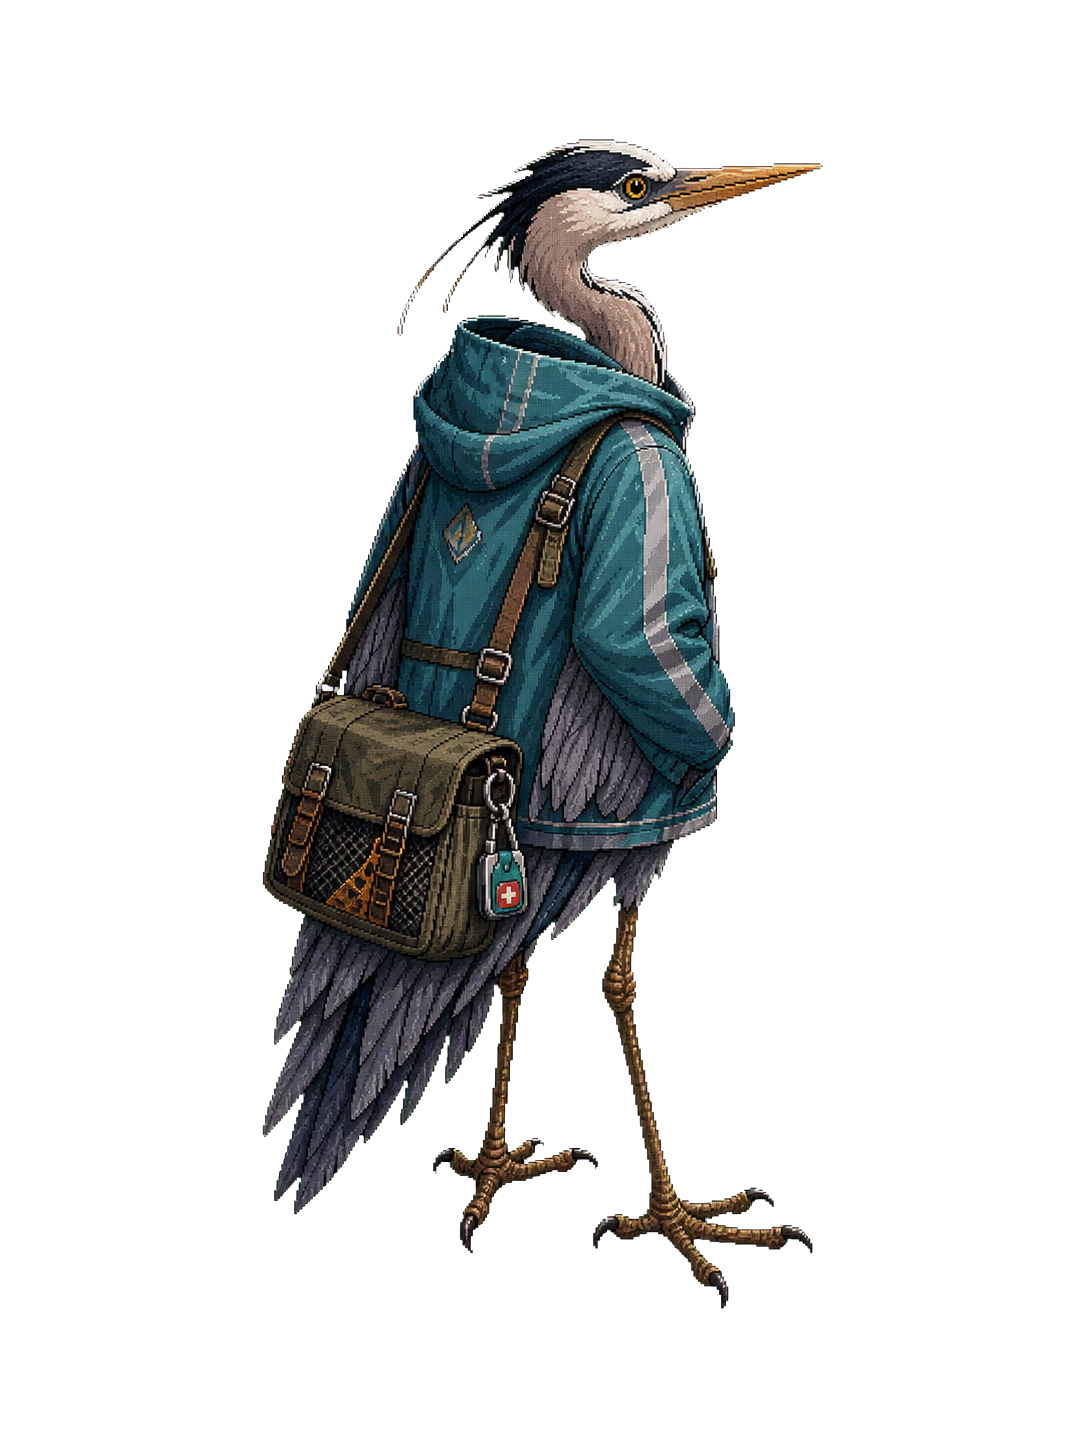
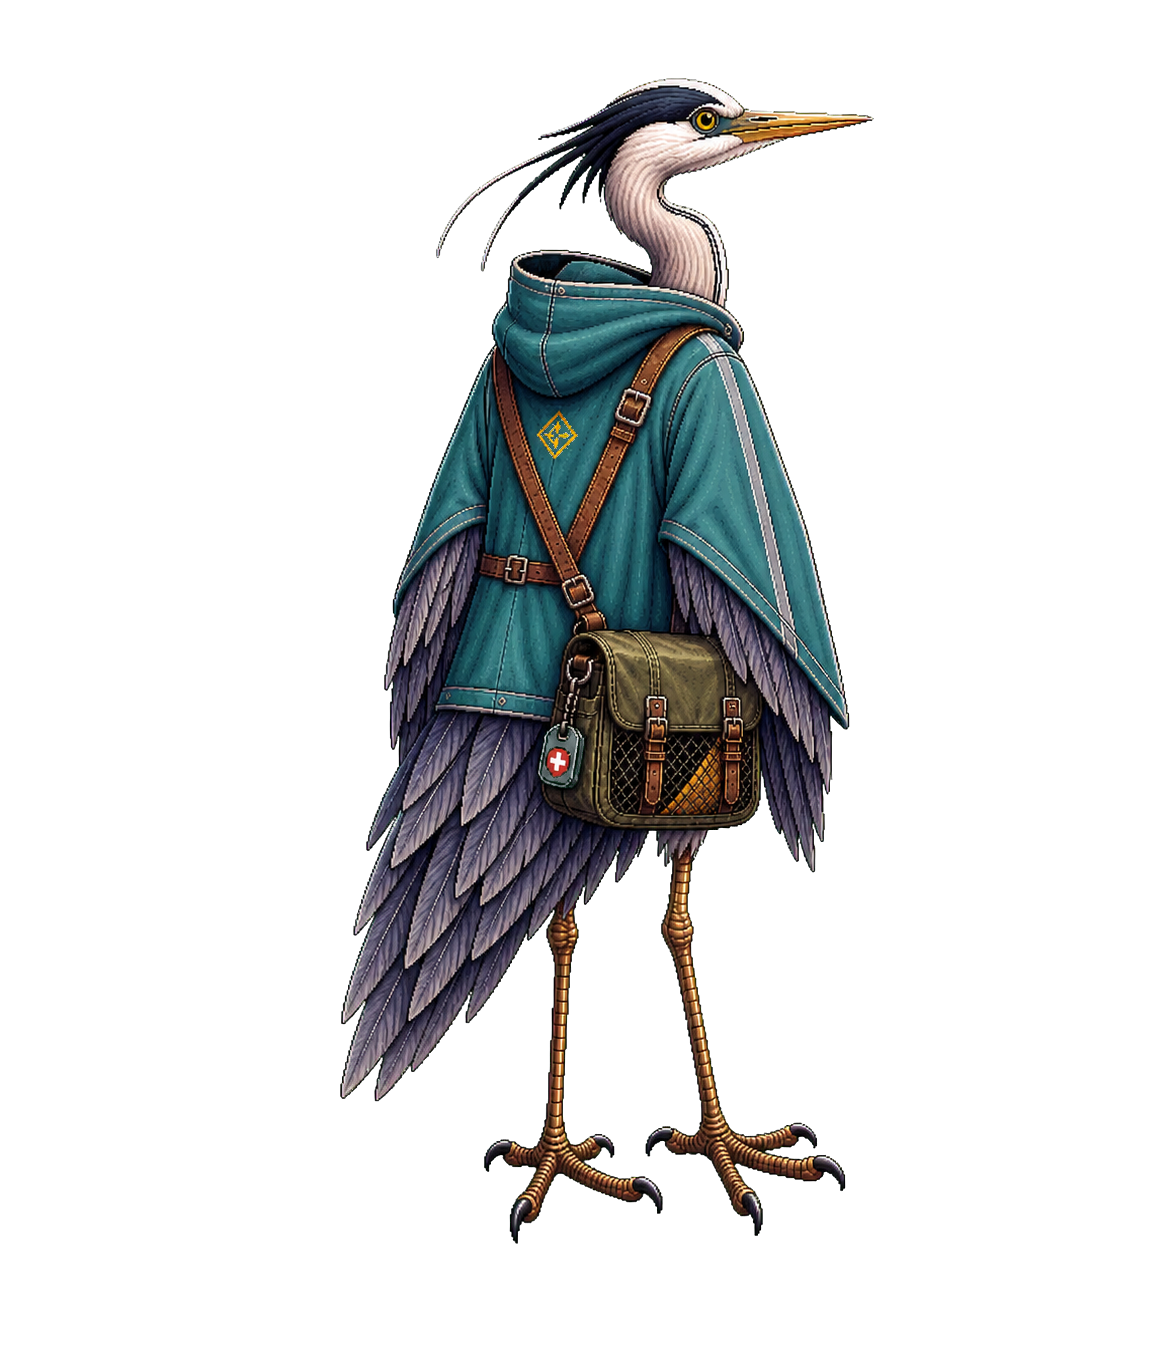
Refine Tidewarden back-facing sleeves

Changed region(s): [[0.2431, 0.0623, 0.7597, 0.934]]

diff --git a/progress.md b/progress.md
@@ -219,3 +219,6 @@ Original prompt: make it happen, can you wire the found artifacts in an appropri
 - Aviary art anatomy correction: replaced `aviary_33` / Cache Memory because the first Pinyon Jay art had a hand-like lifted limb near the cache. The corrected card keeps both feet planted below the body and holds the cache only in the beak, then was recomposited, promoted, and rebuilt into runtime WebP assets. Verification: `npm run validate:aviary-composites`, `npm run validate:runtime-assets`, `npm run build`, and `npm run validate`.
 - Aviary art two-wing correction: regenerated `aviary_30` / Underwing Shelter, `aviary_39` / Reed Balance, and `aviary_43` / Tool Probe with clearer two-wing silhouettes and no wing-hand prop interactions. The corrected centers were recomposited under the shared `master.png` border, promoted to selected art, and rebuilt into portrait/thumb/icon WebP runtime assets.
 - Market art composition pass: generated runtime-sized market-kit assets from the concept outputs, wired the market node to use the new landmark backdrop, and composed the in-game shop with the transparent starling shopkeeper, hanging sign, and counter/wares layers while preserving existing purchase interactions. Verification: `npm run build`, `npm run validate:runtime`, `npm run validate:runtime-assets`, `npm run validate:bundle-size`, focused market Playwright smoke tests, the required web-game client, and screenshot review at `.artifacts/test-results/market-kit-in-game.png`.
+
+- Tidewarden back-facing sleeve correction: replaced the back/NE asset again so the teal sleeve fabric drapes over folded wings instead of forming arm-like tubes; preserved the sleeved front identity, hood, crossed back straps, satchel, red-cross tag, heron profile, and long-legged silhouette.
+- Verification: alpha/chroma processing passed, `npm run build`, required `develop-web-game` client, and direct BattleScene screenshot `.artifacts/tidewarden-back-ne-draped-wing-battle-check.png` confirmed the built game requests `tidewarden-combat-back-ne-z9XIXyYe.webp`.
